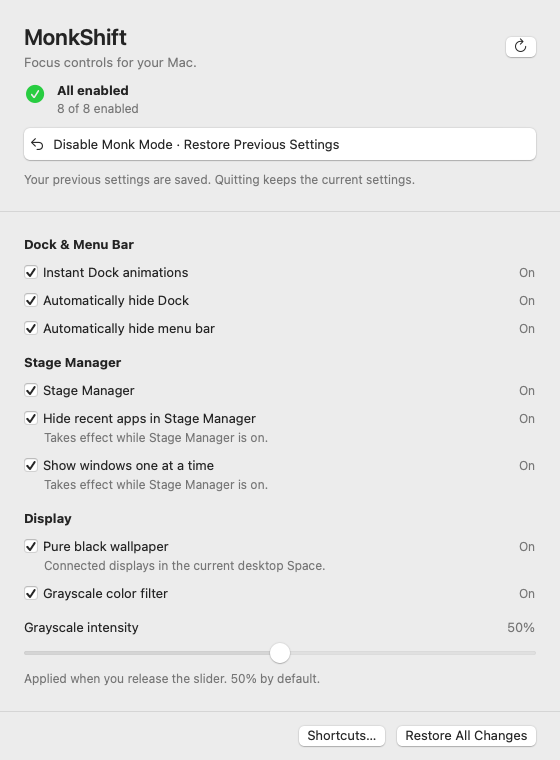
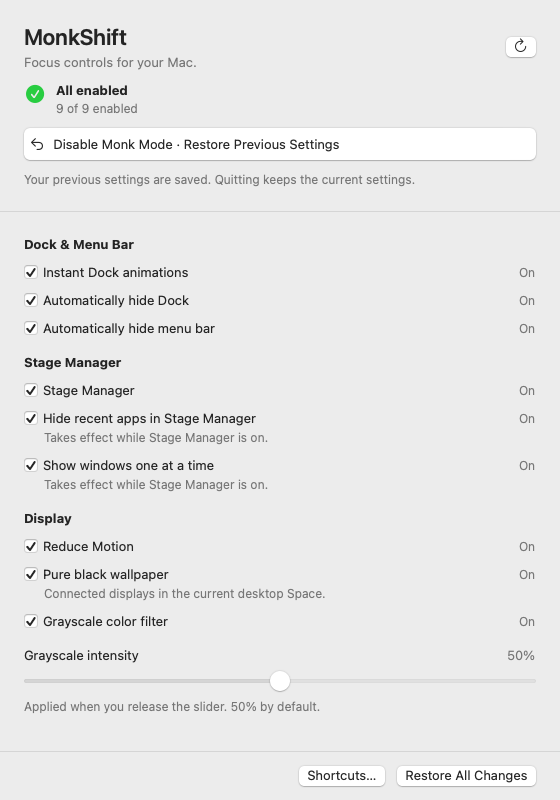
add "Reduce Motion"

diff --git a/Tests/MonkShiftCoreTests/SettingsEngineTests.swift b/Tests/MonkShiftCoreTests/SettingsEngineTests.swift
@@ -46,6 +46,52 @@ import MonkShiftCore
 }
 
 @MainActor final class SettingsEngineTests {
+    func testReduceMotionSessionRestoresBothOriginalStates() async throws {
+        for originallyEnabled in [false, true] {
+            let backend = FakeBackend(), store = MemoryStore()
+            let original = originallyEnabled ? backend.applied : backend.initial
+            backend.values[.reduceMotion] = original
+            let engine = try SettingsEngine(backend: backend, store: store)
+            _ = try await engine.enableMonk(intensity: 0.5)
+            await expectEqual(store.journal.monk[Feature.reduceMotion.rawValue], original)
+            await expectTrue(try backend.read(.reduceMotion).enabled == true)
+            _ = try await engine.restoreMonk()
+            await expectEqual(backend.values[.reduceMotion], original)
+            await expectFalse(engine.hasMonkSession)
+        }
+    }
+
+    func testReduceMotionRestoreFailureSurvivesFileStoreRestart() async throws {
+        let directory = FileManager.default.temporaryDirectory.appendingPathComponent("ReduceMotionChecks-\(UUID().uuidString)")
+        defer { try? FileManager.default.removeItem(at: directory) }
+        let backend = FakeBackend()
+        let url = directory.appendingPathComponent("restore.json")
+        let engine = try SettingsEngine(backend: backend, store: FileRestoreStore(url: url))
+        _ = try await engine.enableMonk(intensity: 0.5)
+        backend.failRestore = [.reduceMotion]
+        await expectEqual(try await engine.restoreMonk().map(\.feature), [.reduceMotion])
+        let restarted = try SettingsEngine(backend: backend, store: FileRestoreStore(url: url))
+        await expectEqual(Set(restarted.journal.monk.keys), [Feature.reduceMotion.rawValue])
+        backend.failRestore = []
+        await expectTrue(try await restarted.restoreMonk().isEmpty)
+        await expectEqual(backend.values[.reduceMotion], backend.initial)
+        await expectFalse(restarted.hasMonkSession)
+    }
+
+    func testLegacySessionLeavesReduceMotionUntouched() async throws {
+        let backend = FakeBackend(), store = MemoryStore()
+        backend.values[.reduceMotion] = backend.applied
+        for feature in Feature.allCases where feature != .reduceMotion {
+            store.journal.monk[feature.rawValue] = backend.initial
+            backend.values[feature] = backend.applied
+        }
+        let engine = try SettingsEngine(backend: backend, store: store)
+        await expectTrue(try await engine.restoreMonk().isEmpty)
+        await expectEqual(backend.values[.reduceMotion], backend.applied)
+        await expectEqual(backend.writes, Feature.allCases.count - 1)
+        await expectFalse(engine.hasMonkSession)
+    }
+
     func testAllSnapshotsPersistBeforeFirstMutation() async throws {
         let backend = FakeBackend(), store = MemoryStore()
         backend.unavailable = [.stageManager]

diff --git a/Sources/MonkShift/System/PreferencesWorker.swift b/Sources/MonkShift/System/PreferencesWorker.swift
@@ -8,6 +8,7 @@ actor PreferencesWorker {
     private let windowManager = "com.apple.WindowManager"
     private var dockNeedsReload = false
     private lazy var colorFilter = Result { try ColorFilterAPI() }
+    private lazy var reduceMotion = Result { try ReduceMotionAPI() }
 
     private func value(_ domain: String, _ key: String) -> Any? {
         CFPreferencesSynchronize(domain as CFString, kCFPreferencesCurrentUser, kCFPreferencesAnyHost)
@@ -47,6 +48,8 @@ actor PreferencesWorker {
         case .oneWindowAtATime:
             return FeatureState(enabled: (value(windowManager, "AppWindowGroupingBehavior") as? NSNumber)?.boolValue ?? false,
                 detail: "Takes effect while Stage Manager is on.")
+        case .reduceMotion:
+            return FeatureState(enabled: try reduceMotion.get().read())
         case .grayscale:
             let state = try colorFilter.get().read()
             return FeatureState(enabled: state.enabled && state.type == 1)
@@ -62,6 +65,7 @@ actor PreferencesWorker {
             return try PropertyListSerialization.data(fromPropertyList: values, format: .binary, options: 0)
         }
         if feature == .grayscale { return try JSONEncoder().encode(colorFilter.get().read()) }
+        if feature == .reduceMotion { return try JSONEncoder().encode(reduceMotion.get().read()) }
         throw MonkError("Could not capture preference keys for \(feature.title).")
     }
 
@@ -75,6 +79,7 @@ actor PreferencesWorker {
             try write(windowManager, "GloballyEnabled", true)
         case .hideRecentApps: try write(windowManager, "AutoHide", true)
         case .oneWindowAtATime: try write(windowManager, "AppWindowGroupingBehavior", 1)
+        case .reduceMotion: try reduceMotion.get().set(enabled: true)
         case .grayscale: try colorFilter.get().apply(intensity: intensity)
         default: throw MonkError("\(feature.title) does not use the preferences backend.")
         }
@@ -88,6 +93,7 @@ actor PreferencesWorker {
         case .stageManager: try write(windowManager, "GloballyEnabled", false)
         case .hideRecentApps: try write(windowManager, "AutoHide", false)
         case .oneWindowAtATime: try write(windowManager, "AppWindowGroupingBehavior", 0)
+        case .reduceMotion: try reduceMotion.get().set(enabled: false)
         case .grayscale: try colorFilter.get().disable()
         default: throw MonkError("\(feature.title) does not use the preferences backend.")
         }
@@ -106,6 +112,8 @@ actor PreferencesWorker {
             }
         } else if feature == .grayscale {
             try colorFilter.get().restore(JSONDecoder().decode(ColorFilterAPI.State.self, from: data))
+        } else if feature == .reduceMotion {
+            try reduceMotion.get().set(enabled: JSONDecoder().decode(Bool.self, from: data))
         } else { throw MonkError("Could not restore preference keys for \(feature.title).") }
     }
 

diff --git a/Tests/MonkShiftUITests/UIChecks.swift b/Tests/MonkShiftUITests/UIChecks.swift
@@ -143,7 +143,8 @@ private func require(_ condition: Bool, _ message: String) throws {
             ("Intent apply errors are returned and remain recoverable", testIntentApplyFailure),
             ("Intent restore failures retain records for retry", testIntentRestoreFailure),
             ("Intent finalization failure is returned to its caller", testIntentFinalizationFailure),
-            ("Intents fail cleanly during startup and shutdown", testIntentLifecycle)
+            ("Intents fail cleanly during startup and shutdown", testIntentLifecycle),
+            ("Reduce Motion menu control and Monk Mode share restoration", testReduceMotionMenuControl)
         ]
         var failures = 0
         for (name, check) in checks {
@@ -394,6 +395,28 @@ private func require(_ condition: Bool, _ message: String) throws {
         do { try await operation() }
         catch { return error.localizedDescription }
         throw UIFailure(description: "Expected the shortcut to report a failure")
+    }
+
+    @MainActor private static func testReduceMotionMenuControl() async throws {
+        let f = Fixture(); defer { f.close() }
+        try await f.start()
+        let controller = SettingsMenuController(model: f.model, showWindow: {}, quit: {})
+        f.model.onRefresh = { [weak controller] in controller?.update() }
+        guard let row = controller.menu.items.first(where: { $0.representedObject as? String == Feature.reduceMotion.rawValue }),
+              let action = row.action else { throw UIFailure(description: "Reduce Motion menu control is missing") }
+        try require(row.title == "Reduce Motion" && row.state == .off && row.isEnabled, "Reduce Motion menu state is incorrect")
+        try require(NSApp.sendAction(action, to: row.target, from: row), "Reduce Motion menu action was not handled")
+        try await until { !f.model.busy }
+        try require(f.backend.values[.reduceMotion] == true && row.state == .on && !f.model.hasSession,
+            "Individual Reduce Motion control did not update independently")
+        try await f.model.performMonkMode(.enable)
+        try await f.model.performMonkMode(.disable)
+        try require(f.backend.values[.reduceMotion] == true && row.state == .on,
+            "Disabling Monk Mode overwrote the earlier individual Reduce Motion setting")
+        f.model.restoreAll()
+        try await until { !f.model.busy }
+        try require(f.backend.values[.reduceMotion] == false && row.state == .off,
+            "Restore All did not restore the original Reduce Motion baseline")
     }
 
     @MainActor private static func testAppIntentActions() async throws {

diff --git a/Sources/MonkShift/System/ReduceMotionAPI.swift b/Sources/MonkShift/System/ReduceMotionAPI.swift
@@ -1,0 +1,43 @@
+import Darwin
+import MonkShiftCore
+
+/// Version-sensitive system setters stay isolated from the settings engine.
+final class ReduceMotionAPI {
+    private let handle: UnsafeMutableRawPointer?
+    private let getEnabled: () -> Bool
+    private let setEnabled: (Bool) -> Void
+
+    init() throws {
+        guard let handle = dlopen("/System/Library/Frameworks/ApplicationServices.framework/ApplicationServices", RTLD_LAZY) else {
+            throw MonkError("The system Reduce Motion API is unavailable.")
+        }
+        guard let getter = dlsym(handle, "_AXInterfaceGetReduceMotionEnabled"),
+              let setter = dlsym(handle, "_AXInterfaceSetReduceMotionEnabled") else {
+            dlclose(handle)
+            throw MonkError("This macOS version does not expose the Reduce Motion controls.")
+        }
+        let read = unsafeBitCast(getter, to: (@convention(c) () -> Bool).self)
+        let write = unsafeBitCast(setter, to: (@convention(c) (Bool) -> Void).self)
+        self.handle = handle
+        getEnabled = { read() }
+        setEnabled = { write($0) }
+    }
+
+    /// Fake accessors let checks exercise rejected writes without changing macOS.
+    init(read: @escaping () -> Bool, write: @escaping (Bool) -> Void) {
+        handle = nil
+        getEnabled = read
+        setEnabled = write
+    }
+
+    deinit { if let handle { dlclose(handle) } }
+
+    func read() -> Bool { getEnabled() }
+
+    func set(enabled: Bool) throws {
+        setEnabled(enabled)
+        guard getEnabled() == enabled else {
+            throw MonkError("macOS did not retain Reduce Motion. The previous state is saved for restoration.")
+        }
+    }
+}

diff --git a/Tests/MonkShiftSystemTests/ReduceMotionChecks.swift b/Tests/MonkShiftSystemTests/ReduceMotionChecks.swift
@@ -1,0 +1,30 @@
+import Foundation
+
+enum ReduceMotionChecks {
+    static func testSetAndRestore() async throws {
+        for original in [false, true] {
+            var state = original
+            let api = ReduceMotionAPI(read: { state }, write: { state = $0 })
+            let saved = api.read()
+            try api.set(enabled: true)
+            try require(api.read(), "Reduce Motion was not enabled")
+            try api.set(enabled: false)
+            try require(!api.read(), "Reduce Motion was not disabled")
+            try api.set(enabled: saved)
+            try require(state == original, "Reduce Motion did not restore its original state")
+        }
+    }
+
+    static func testRejectedWritesAreReported() async throws {
+        for original in [false, true] {
+            let api = ReduceMotionAPI(read: { original }, write: { _ in })
+            do {
+                try api.set(enabled: !original)
+            } catch {
+                try require(error.localizedDescription.contains("macOS did not retain Reduce Motion"), "Rejected write lost its explanation")
+                continue
+            }
+            throw CheckFailure(description: "Rejected Reduce Motion write was reported as success")
+        }
+    }
+}

diff --git a/Tests/MonkShiftCoreTests/CheckRunner.swift b/Tests/MonkShiftCoreTests/CheckRunner.swift
@@ -46,6 +46,9 @@ import Foundation
             ("Unknown restore version rejected", suite.testUnknownRestoreVersionIsRejected),
             ("Concurrent changes blocked during snapshot", suite.testConcurrentMutationIsRejectedWhileSnapshotSuspends),
             ("Finalization failure retains restore records", suite.testFinalizationFailureKeepsRestoreRecords),
+            ("Reduce Motion session restores either original state", suite.testReduceMotionSessionRestoresBothOriginalStates),
+            ("Reduce Motion restore failure survives file-store restart", suite.testReduceMotionRestoreFailureSurvivesFileStoreRestart),
+            ("Legacy sessions leave Reduce Motion untouched", suite.testLegacySessionLeavesReduceMotionUntouched),
             ("All enabled requires observed settings", summary.testAllEnabledRequiresEveryObservedSetting),
             ("Off requires observed settings", summary.testAllOffRequiresEveryObservedSetting),
             ("Partial status reflects individual settings", summary.testPartialReflectsIndividualSettings),

diff --git a/Tests/MonkShiftSystemTests/SystemChecks.swift b/Tests/MonkShiftSystemTests/SystemChecks.swift
@@ -32,7 +32,9 @@ func require(_ condition: Bool, _ message: String) throws {
             ("Read/write commands match the macOS scripting dictionary", SystemEventsChecks.testCommandsMatchScriptingDictionary),
             ("Slow system reply leaves main actor responsive", { try await SystemEventsChecks.testMainActorRemainsResponsive() }),
             ("System event transport is serialized", SystemEventsChecks.testTransportIsSerialized),
-            ("Unknown, denied and timed out replies fail honestly", SystemEventsChecks.testUnknownAndErrorRepliesAreRejected)
+            ("Unknown, denied and timed out replies fail honestly", SystemEventsChecks.testUnknownAndErrorRepliesAreRejected),
+            ("Reduce Motion restores enabled and disabled baselines", ReduceMotionChecks.testSetAndRestore),
+            ("Rejected Reduce Motion writes are reported", ReduceMotionChecks.testRejectedWritesAreReported)
         ]
         var failures = 0
         for (name, test) in tests {

diff --git a/Sources/MonkShiftCore/Feature.swift b/Sources/MonkShiftCore/Feature.swift
@@ -2,7 +2,7 @@ import Foundation
 
 public enum Feature: String, CaseIterable, Codable, Identifiable, Sendable {
     case instantDock, hideDock, hideMenuBar
-    case stageManager, hideRecentApps, oneWindowAtATime, blackWallpaper, grayscale
+    case stageManager, hideRecentApps, oneWindowAtATime, reduceMotion, blackWallpaper, grayscale
 
     public var id: String { rawValue }
     public var title: String {
@@ -13,6 +13,7 @@ public enum Feature: String, CaseIterable, Codable, Identifiable, Sendable {
         case .stageManager: return "Stage Manager"
         case .hideRecentApps: return "Hide recent apps in Stage Manager"
         case .oneWindowAtATime: return "Show windows one at a time"
+        case .reduceMotion: return "Reduce Motion"
         case .blackWallpaper: return "Pure black wallpaper"
         case .grayscale: return "Grayscale color filter"
         }

diff --git a/Sources/MonkShift/Views/RootView.swift b/Sources/MonkShift/Views/RootView.swift
@@ -93,7 +93,7 @@ struct ControlsView: View {
                     }
                     group("Dock & Menu Bar", features: [.instantDock, .hideDock, .hideMenuBar])
                     group("Stage Manager", features: [.stageManager, .hideRecentApps, .oneWindowAtATime])
-                    group("Display", features: [.blackWallpaper, .grayscale])
+                    group("Display", features: [.reduceMotion, .blackWallpaper, .grayscale])
                     VStack(alignment: .leading, spacing: 8) {
                         HStack {
                             Text("Grayscale intensity")

diff --git a/Sources/MonkShift/PreviewRenderer.swift b/Sources/MonkShift/PreviewRenderer.swift
@@ -44,7 +44,7 @@ import SwiftUI
     }
 
     @MainActor private static func render<V: View>(_ view: V, name: String, output: URL, dark: Bool,
-        size: NSSize = NSSize(width: 560, height: 760)) throws {
+        size: NSSize = NSSize(width: 560, height: 800)) throws {
         let hosting = NSHostingView(rootView: view.frame(width: size.width, height: size.height)
             .background(Color(nsColor: .windowBackgroundColor)))
         let window = NSWindow(contentRect: NSRect(origin: .zero, size: size), styleMask: [.borderless], backing: .buffered, defer: false)

diff --git a/Sources/MonkShift/MonkShiftApp.swift b/Sources/MonkShift/MonkShiftApp.swift
@@ -93,7 +93,7 @@ import MonkShiftCore
             let created = NSWindow(contentViewController: controller)
             created.title = "MonkShift"
             created.styleMask = [.titled, .closable, .miniaturizable, .resizable]
-            created.setContentSize(NSSize(width: 560, height: 760))
+            created.setContentSize(NSSize(width: 560, height: 800))
             created.minSize = NSSize(width: 540, height: 620)
             created.isReleasedWhenClosed = false
             created.delegate = self

diff --git a/README.md b/README.md
@@ -85,7 +85,7 @@ releases the lock on exit or a crash; an old PID file alone cannot block startup
 
 Every setting has a checkbox in the window and in the native menu bar menu. Status is refreshed when opening the menu/window, returning to MonkShift, changing the desktop Space while the window is visible, waking the Mac, and after applying settings. Use **Refresh** for changes made elsewhere. No repeating background polling is used.
 
-The top of the window and menu shows **All enabled**, **Partially enabled**, **Off**, or **Status unknown**, together with the number of confirmed enabled settings out of eight. This reflects observed settings, independently of the saved Monk Mode session. Unknown and unavailable settings are counted separately and never count as confirmed enabled. The summary stays visible during background work. A small activity indicator appears in a fixed space in the window only if work lasts longer than half a second. Operation errors appear separately. The menu bar uses a monochrome template icon of a monk in the lotus pose, adapting to light and dark menu bars.
+The top of the window and menu shows **All enabled**, **Partially enabled**, **Off**, or **Status unknown**, together with the number of confirmed enabled settings out of nine. This reflects observed settings, independently of the saved Monk Mode session. Unknown and unavailable settings are counted separately and never count as confirmed enabled. The summary stays visible during background work. A small activity indicator appears in a fixed space in the window only if work lasts longer than half a second. Operation errors appear separately. The menu bar uses a monochrome template icon of a monk in the lotus pose, adapting to light and dark menu bars.
 
 | Setting | Implementation and scope |
 | --- | --- |
@@ -95,6 +95,7 @@ The top of the window and menu shows **All enabled**, **Partially enabled**, **O
 | Stage Manager | `com.apple.WindowManager` → `GloballyEnabled`. Requires “Displays have separate Spaces”; if disabled, MonkShift explains the prerequisite. |
 | Hide recent apps | `com.apple.WindowManager` → `AutoHide = true`. Only affects Stage Manager while it is enabled. |
 | One window at a time | `com.apple.WindowManager` → `AppWindowGroupingBehavior = 1`. Only affects Stage Manager. |
+| Reduce Motion | System Accessibility → Display → Reduce Motion, through dynamically resolved `_AXInterfaceGetReduceMotionEnabled` / `_AXInterfaceSetReduceMotionEnabled`. Included in Monk Mode and restored to its saved enabled/disabled state. |
 | Black wallpaper | An 8 × 8 opaque black PNG generated locally, applied through `NSWorkspace` to each connected display in the current desktop Space. |
 | Grayscale | System display color filter category 1, type 1, through dynamically resolved `MADisplayFilterPref*` APIs and the system Universal Access daemon. |
 
@@ -107,7 +108,16 @@ The grayscale slider is available in the window and **directly below the graysca
 
 Menu control fixtures, shown separately from the surrounding native menu.
 
-**Compatibility:** Dock and Stage Manager preference keys and the color filter symbols are not stable public configuration APIs. Their actual visual effects require manual checks on each supported macOS version. Checkboxes read system preferences/API state, not screen pixels. A preference read-back confirms the stored value; it cannot prove the corresponding daemon rendered the effect. Missing symbols, failed writes and unknown states are shown explicitly. No SIP changes or administrator privileges are used.
+**Compatibility:** Dock and Stage Manager preference keys, Reduce Motion setters and the color filter symbols are not stable public configuration APIs. Their actual visual effects require manual checks on each supported macOS version. Checkboxes read system preferences/API state, not screen pixels. A preference read-back confirms the stored value; it cannot prove the corresponding daemon rendered the effect. Missing symbols, failed writes and unknown states are shown explicitly. No SIP changes or administrator privileges are used.
+
+Reduce Motion has its own checkbox in the window's **Display** group and in the
+menu. Monk Mode saves its current state before enabling it. Disabling Monk Mode
+restores that state, including an originally enabled setting. Existing sessions
+created before Reduce Motion was added restore only their saved settings; they
+leave Reduce Motion untouched unless it was subsequently captured. The setting
+affects system and app motion preferences, including browsers' reduced-motion
+behavior; it does not remove every animation. See Apple's
+[Reduce Motion API documentation](https://developer.apple.com/documentation/appkit/nsworkspace/accessibilitydisplayshouldreducemotion).
 
 ## Monk Mode and restoration
 
@@ -183,20 +193,21 @@ No fixed RAM claim is made until the release build is measured. To measure, laun
 
 ## Verification
 
-`bash scripts/check.sh` runs 20 core checks against observed-state fixtures, a fake backend and temporary storage: aggregate status including unknown/unavailable settings, write-before-mutate, failed writes, repeated enables, partial apply/restore failures, restoration after restart, baseline ordering, edits during a session, pre-existing enabled features, file corruption/version handling, suspension/concurrent-operation guards, and failed finalization recovery. It does not request privacy permissions or change macOS settings. A dependency-free Foundation runner is used because Command Line Tools do not include XCTest.
+`bash scripts/check.sh` runs 23 core checks against observed-state fixtures, a fake backend and temporary storage: aggregate status including unknown/unavailable settings, write-before-mutate, failed writes, repeated enables, partial apply/restore failures, restoration after restart, baseline ordering, edits during a session, pre-existing enabled features, file corruption/version handling, suspension/concurrent-operation guards, and failed finalization recovery. Reduce Motion checks include both original states, failed restoration through a file-store restart and legacy sessions without its snapshot. It does not request privacy permissions or change macOS settings. A dependency-free Foundation runner is used because Command Line Tools do not include XCTest.
 
 The same script compiles the app's actual permission manager with a fake client and runs 8 additional checks: idle-target recovery, denied/missing/revoked consent, unavailable targets, launch failures, concurrent refreshes, and explicit request completion. No real services are started or privacy prompts requested by these checks.
 
-Nine isolated system checks cover cross-process file locking, normal/crash
+Eleven isolated system checks cover cross-process file locking, normal/crash
 release, lock-file errors, typed Apple Event requests, background serialization,
 main-actor responsiveness during a slow fake reply, and unknown/denied/unhandled/timed-out
 replies. Command codes are compared with macOS's installed scripting dictionary
 for both Dock and menu bar reads/writes, including true and false values. Only
 permission failures suggest changing Automation access. These checks use temporary
 files, short-lived test subprocesses and a fake event transport; no real Apple
-Events are sent.
+Events are sent. Reduce Motion accessors are replaced with fakes to check
+enable/disable/restoration and rejected writes without changing the OS.
 
-Twenty-four UI/intent checks use the actual app model and native menu with fake settings and
+Twenty-five UI/intent checks use the actual app model and native menu with fake settings and
 permissions, isolated preferences/storage, and global shortcuts disabled. They
 cover input during refresh, rapid toggles, failed-change recovery, captured slider
 values, in-flight intensity reads, finalization errors, permission revocation,
@@ -204,7 +215,9 @@ native menu/slider identity, stable Quit availability, queued restoration and
 deferred shutdown while changes or a refresh are pending. The ten intent checks
 also cover all three actions, repeated enables, completion/read-back ordering,
 initial refresh, denied/revoked permission, partial apply/restore errors,
-finalization failure and startup/shutdown behavior.
+finalization failure and startup/shutdown behavior. A menu action check verifies
+that individual Reduce Motion changes, Monk Mode and Restore All preserve their
+respective baselines.
 No real Apple Events, privacy prompts or system-setting writes are performed.
 
 `bash scripts/render-previews.sh` renders light/dark window and onboarding PNGs into `build/previews` using fixture state. Controls cover off, all enabled with/without a saved session, partially enabled, unknown, unavailable, failed-operation, applying and refreshing states, plus the minimum window size and the menu bar icon at native and enlarged sizes. The direct native intensity view is rendered with grayscale on/off, disabled, and at the 0%/100% endpoints. Add `--readme` to refresh the tracked examples in `docs/images`. The renderer is compiled only with `MONKSHIFT_PREVIEW`; it is absent from release builds. These images verify layout, not real OS behavior.
@@ -214,7 +227,8 @@ Manual acceptance checks on **both macOS 14 and macOS 15**:
 - Deny the permission: controls and shortcuts remain locked. Grant it: controls unlock. Revoke it: future actions are blocked.
 - After granting permission, close the window and let System Events exit while idle. Open MonkShift's menu: controls should appear after the background check, without another consent prompt. Repeat after restarting MonkShift.
 - Record initial Dock, menu bar, Stage Manager, wallpaper and filter states. Enable each setting and verify its actual visual effect, including Stage Manager grouping with two windows from the same app.
-- Enable Monk Mode; verify all eight settings and the aggregate status at the top of both the window and menu. Disable one setting and confirm **Partially enabled** appears even with a saved session. Disable Monk Mode and compare to the recorded baseline. Unknown/unavailable readings must not produce **All enabled** or a false **Off**.
+- Enable Monk Mode; verify all nine settings and the aggregate status at the top of both the window and menu. Disable one setting and confirm **Partially enabled** appears even with a saved session. Disable Monk Mode and compare to the recorded baseline. Unknown/unavailable readings must not produce **All enabled** or a false **Off**.
+- Compare Reduce Motion with System Settings → Accessibility → Display. Toggle it individually and through Monk Mode, starting once enabled and once disabled; disable Monk Mode and verify the exact original state. Quit/reopen with the mode active, then restore. Check another running app observes the change. These live checks are separate from fake-backend tests and read-only symbol/getter probes.
 - Start with a different color filter enabled. Enable grayscale, adjust its slider, and restore; confirm the original type and intensity are preserved. Repeat through the menu bar's direct **Grayscale intensity** control: the percentage should follow dragging, settings should apply on release, and the window should show the same value. With grayscale off, verify the menu slider is disabled; choose a preferred amount in the window, then enable the filter and verify that amount is used. Check both controls stay available during changes and are disabled when the filter is unavailable/unknown. Make several quick checkbox/slider changes: confirm the last chosen values are retained, the interface does not grey out, and the open native menu slider retains focus through background refreshes.
 - Quit while Monk Mode is active. Reopen and restore the previous state.
 - Launch a second copy while MonkShift is running, including with its window closed: only the existing window should open and no second menu bar item should appear. After terminating the owner, verify a subsequent launch works and saved restoration remains available.
